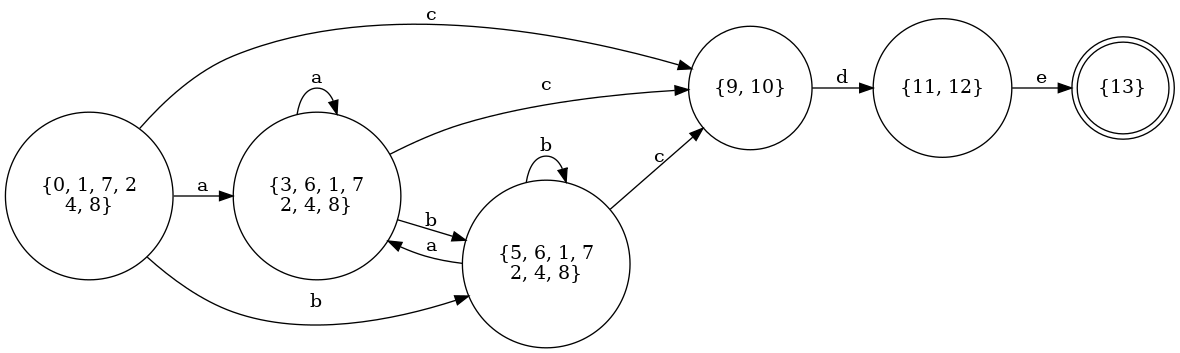
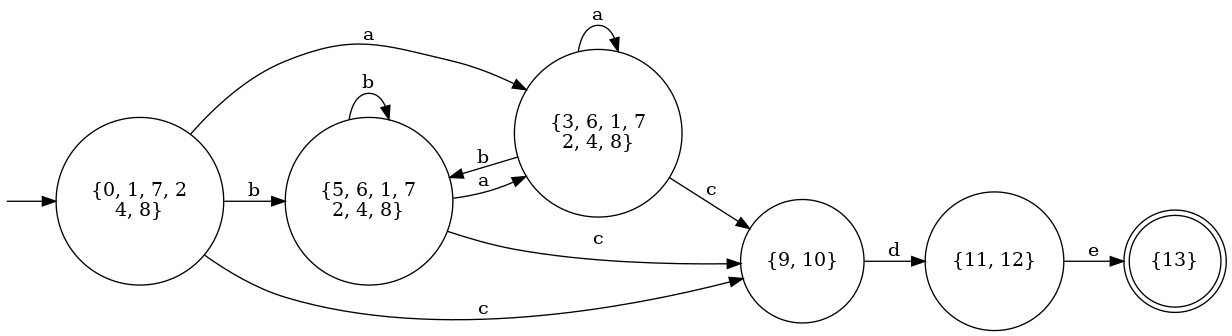
Add start arrows to state machines

diff --git a/src/state.rs b/src/state.rs
@@ -96,6 +96,11 @@ impl<'a> State<'a> {
 
         queue.push_back(self);
 
+        edges.push(format!(
+            "START [label=\"\", shape=none, height=0, width=0]\nSTART -> {}",
+            self.id
+        ));
+
         while let Some(state) = queue.pop_front() {
             if visited.contains(&state.id) {
                 continue;
@@ -372,6 +377,11 @@ impl<'a> DfaState<'a> {
         let mut visited = HashSet::new();
 
         queue.push_back(self);
+
+        edges.push(format!(
+            "START [label=\"\", shape=none, height=0, width=0]\nSTART -> {}",
+            self.id
+        ));
 
         while let Some(state) = queue.pop_front() {
             if visited.contains(&state.id) {
